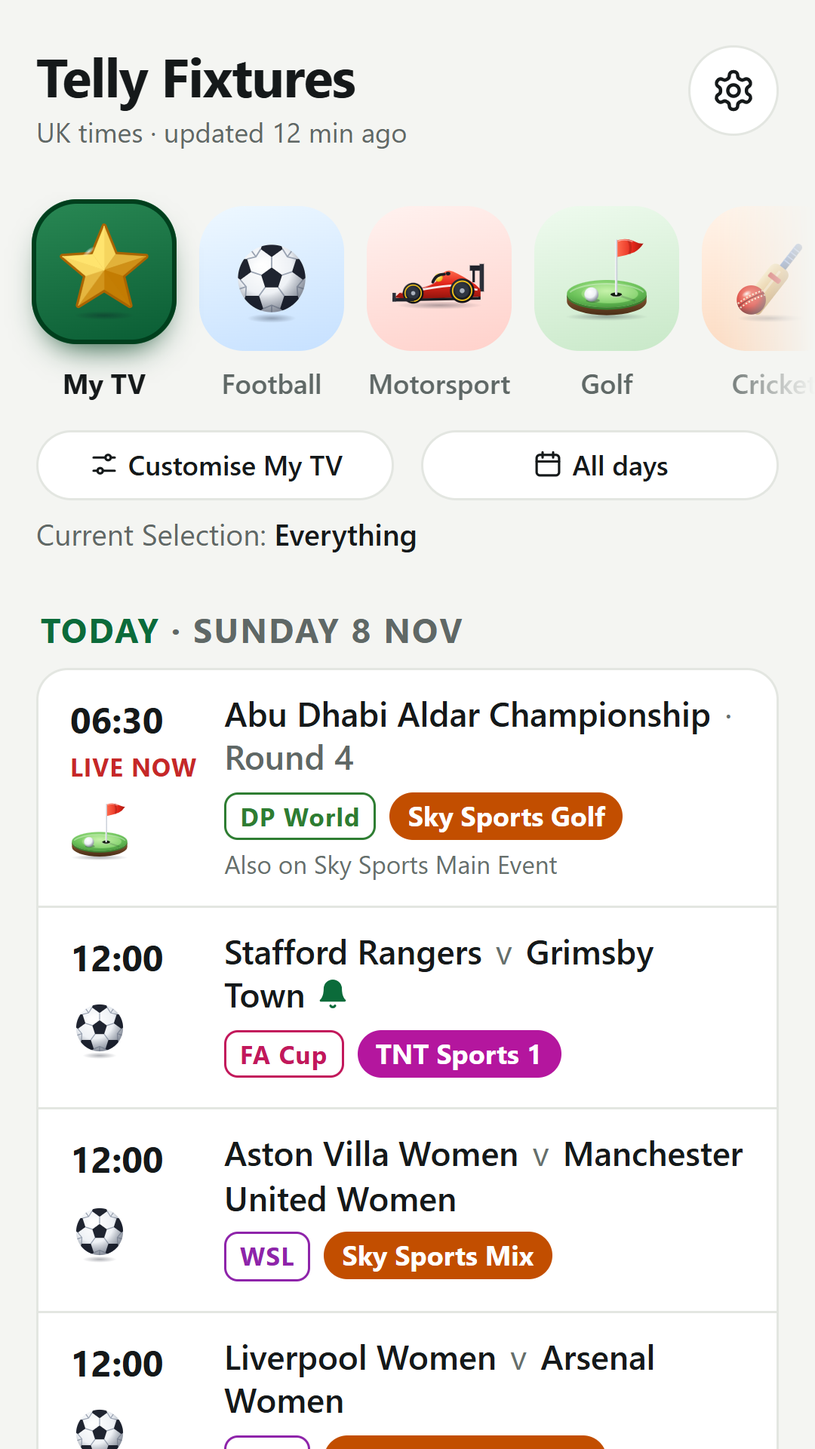
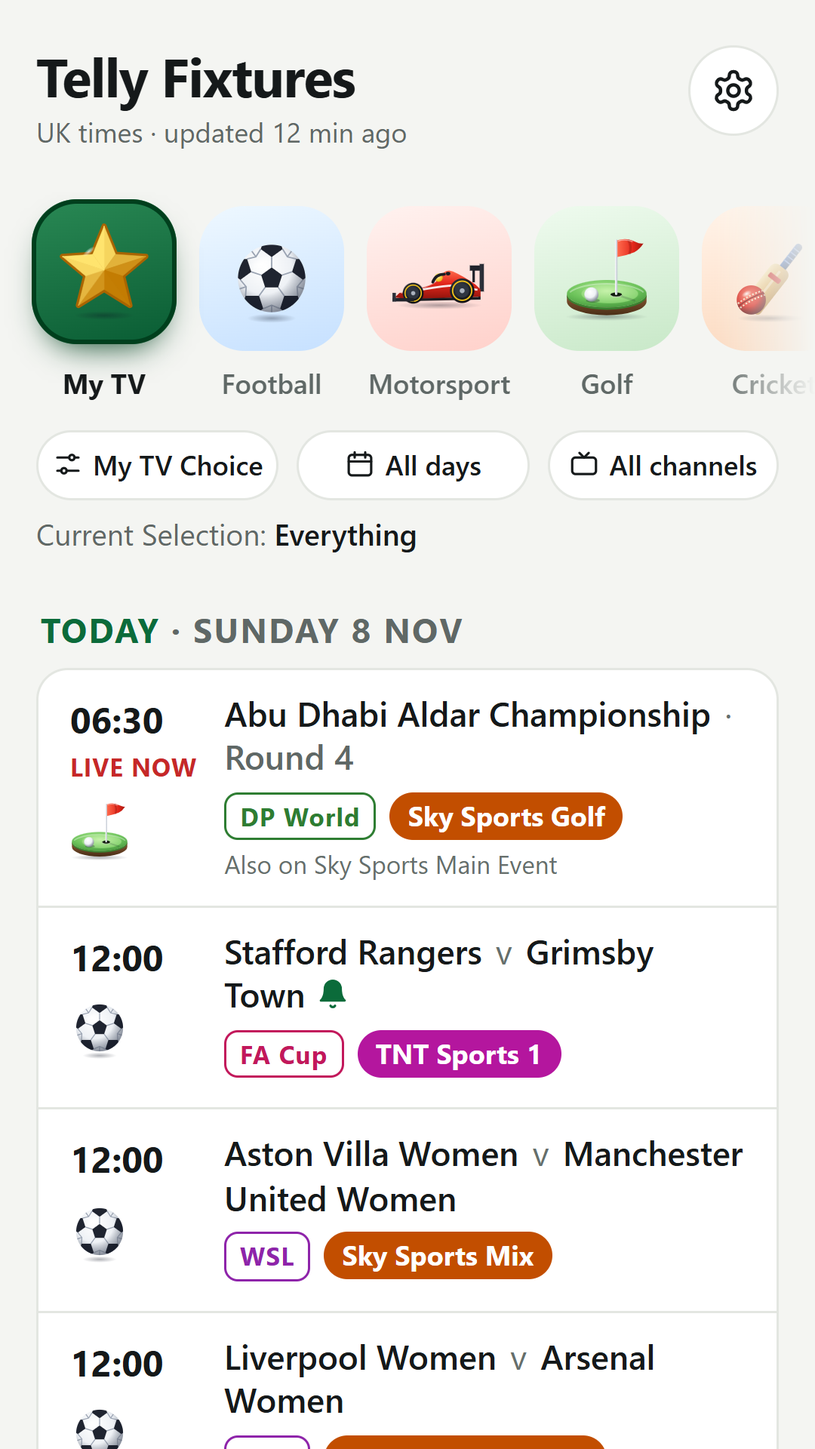
App 1.0.7: channel filter, My TV Choice, back clears filters first
My TV gets a channel button: tick broadcasters (Sky Sports, TNT Sports, HBO Max...), combined with the day. Customise My TV is now My TV Choice. Back (swipe) on My TV clears a picked day or channel before closing the app. The store screenshots and description show it.

Changed region(s): [[0.0611, 0.3125, 0.5806, 0.3438], [0.6417, 0.3125, 0.9167, 0.3438]]

diff --git a/index.html b/index.html
@@ -234,9 +234,9 @@
   .chip[aria-pressed="true"] { background: var(--text); border-color: var(--text); color: var(--bg); }
   .chip .soon { font-size: 0.625rem; font-weight: 700; text-transform: uppercase; letter-spacing: .04em; opacity: .65; margin-left: 5px; }
   .mine { display: flex; flex-direction: column; gap: 6px; margin-top: 10px; }
-  /* Side by side and equally wide; with larger text the day button moves under Customise */
-  .mine .btns { display: flex; flex-wrap: wrap; gap: 8px 12px; }
-  .mine .btns .edit { flex: 1 1 120px; min-width: fit-content; justify-content: center; white-space: nowrap; }
+  /* Side by side and equally wide; with larger text they wrap onto a second line */
+  .mine .btns { display: flex; flex-wrap: wrap; gap: 8px; }
+  .mine .btns .edit { flex: 1 1 0; min-width: fit-content; justify-content: center; white-space: nowrap; padding-left: 8px; padding-right: 8px; }
   .mine .what { font-size: 0.8125rem; color: var(--muted); }
   .mine .what b { color: var(--text); font-weight: 600; }
   .edit {
@@ -298,7 +298,7 @@
   footer a { color: inherit; }
   .loading { color: var(--muted); padding: 40px 0; text-align: center; }
 
-  /* "Customise My TV": a sheet that slides up from the bottom */
+  /* "My TV Choice": a sheet that slides up from the bottom */
   dialog.sheet {
     border: 0; padding: 0; margin: auto auto 0; width: 100%; max-width: 640px; max-height: 88vh; max-height: 88dvh;
     border-radius: 20px 20px 0 0; background: var(--bg); color: var(--text); display: none; flex-direction: column;
@@ -387,7 +387,7 @@
 </div>
 
 <dialog class="sheet" id="picker" aria-labelledby="picker-title">
-  <div class="sheet-h"><h3 id="picker-title">Customise My TV</h3><button class="done" id="picker-done">Done</button></div>
+  <div class="sheet-h"><h3 id="picker-title">My TV Choice</h3><button class="done" id="picker-done">Done</button></div>
   <p class="sheet-p">Tick what you want to see when you open the app. Your choice is saved on this phone.</p>
   <div class="sheet-b" id="picker-body"></div>
 </dialog>
@@ -396,6 +396,12 @@
   <div class="sheet-h"><h3 id="day-title">Pick a day</h3><button class="done" id="day-close">Close</button></div>
   <p class="sheet-p">Show your TV feed for one day only, or for the whole week.</p>
   <div class="sheet-b" id="day-body"></div>
+</dialog>
+
+<dialog class="sheet" id="chanPicker" aria-labelledby="chan-title">
+  <div class="sheet-h"><h3 id="chan-title">Pick channels</h3><button class="done" id="chan-done">Done</button></div>
+  <p class="sheet-p">Show only what’s on these channels. Tick as many as you like.</p>
+  <div class="sheet-b" id="chan-body"></div>
 </dialog>
 
 <dialog class="sheet" id="settings" aria-labelledby="settings-title">
@@ -455,6 +461,7 @@
   const ICON = {
     bell: svg('<path d="M6 8a6 6 0 0 1 12 0c0 7 3 9 3 9H3s3-2 3-9"/><path d="M10.3 21a1.94 1.94 0 0 0 3.4 0"/>'),
     gear: svg('<path d="M12.22 2h-.44a2 2 0 0 0-2 2v.18a2 2 0 0 1-1 1.73l-.43.25a2 2 0 0 1-2 0l-.15-.08a2 2 0 0 0-2.73.73l-.22.38a2 2 0 0 0 .73 2.73l.15.1a2 2 0 0 1 1 1.72v.51a2 2 0 0 1-1 1.74l-.15.09a2 2 0 0 0-.73 2.73l.22.38a2 2 0 0 0 2.73.73l.15-.08a2 2 0 0 1 2 0l.43.25a2 2 0 0 1 1 1.73V20a2 2 0 0 0 2 2h.44a2 2 0 0 0 2-2v-.18a2 2 0 0 1 1-1.73l.43-.25a2 2 0 0 1 2 0l.15.08a2 2 0 0 0 2.73-.73l.22-.39a2 2 0 0 0-.73-2.73l-.15-.08a2 2 0 0 1-1-1.74v-.5a2 2 0 0 1 1-1.74l.15-.09a2 2 0 0 0 .73-2.73l-.22-.38a2 2 0 0 0-2.73-.73l-.15.08a2 2 0 0 1-2 0l-.43-.25a2 2 0 0 1-1-1.73V4a2 2 0 0 0-2-2z"/><circle cx="12" cy="12" r="3"/>'),
+    tv: svg('<rect x="3" y="7" width="18" height="12.5" rx="2.5"/><path d="M8.5 3.5 12 7l3.5-3.5"/>'),
     calendar: svg('<rect x="3.5" y="5" width="17" height="15.5" rx="2.5"/><path d="M3.5 10h17M8 3v4M16 3v4"/>'),
     edit: svg('<path d="M4 7h9M17 7h3M4 17h3M11 17h9"/><circle cx="15" cy="7" r="2"/><circle cx="9" cy="17" r="2"/>'),
   };
@@ -525,7 +532,7 @@
   // My TV is not a sport but sits in the same row
   const MINE = { id: 'mine', icon: 'mytv', hue: 155, name: 'My TV' };
   const SPORT_BY_ID = Object.fromEntries(SPORTS.map(s => [s.id, s]));
-  // Chips (and Customise buttons) for a sport's competitions: when it has several, or always for
+  // Chips (and My TV Choice buttons) for a sport's competitions: when it has several, or always for
   // Specials, whose events are too different to lump together (George, 29 Oct 2026)
   const showsComps = (s) => s.comps.length > 1 || (!!s.listComps && s.comps.length > 0);
   // A sport's 3D icon on its tinted tile (the colours are set by CSS from --h)
@@ -545,7 +552,7 @@
     return e.comp;
   }
 
-  // My TV: the competitions picked in "Customise". Default: everything.
+  // My TV: the competitions picked in "My TV Choice". Default: everything.
   // A special out of scope keeps its tick for its next edition, so the picks can hold more than
   // ALL_COMPS (the competitions on show).
   let picks = new Set(ALL_COMPS);
@@ -591,6 +598,8 @@
   }
   // The day picked on My TV, or null for the whole week (also if that day has since left the window)
   const pickedDay = () => view.sport === 'mine' && view.day ? windowDays().find(d => d.key === view.day) || null : null;
+  // The broadcasters picked on My TV, or null for all channels. Not saved: the app opens on all of them.
+  const pickedChans = () => view.sport === 'mine' && view.chans && view.chans.size ? view.chans : null;
   const dayName = (d) => d.i === 0 ? 'Today' : d.i === 1 ? 'Tomorrow' : fShort.format(d.date);
 
   let data = null;
@@ -606,6 +615,24 @@
   function esc(s) {
     return String(s ?? '').replace(/[&<>"']/g, c => ({ '&': '&amp;', '<': '&lt;', '>': '&gt;', '"': '&quot;', "'": '&#39;' }[c]));
   }
+
+  // The channel filter on My TV (George, 7 Nov 2026) picks broadcasters, not single channels: "TNT Sports"
+  // covers TNT Sports 1-4. A fixture counts if any of its channels, "also on" ones included, belongs to a
+  // picked broadcaster; one with no channel yet doesn't.
+  const BRANDS = [['Sky Sports', /^sky sports/i], ['TNT Sports', /^tnt sports/i], ['HBO Max', /hbo max/i],
+    ['Prime Video', /prime video|amazon/i], ['BBC', /^bbc/i], ['ITV', /^itv/i], ['Channel 4', /^(channel 4|e4|more4)\b/i],
+    ['Channel 5', /^(channel 5|5\b)/i], ['Premier Sports', /^(premier sports|premier events|laliga tv)/i]];
+  const brandOf = (channel) => (BRANDS.find(([, re]) => re.test(channel)) || [channel])[0];
+  function brandsOf(m) {
+    const tv = m.tv || {};
+    const chans = [...(tv.channels || []), ...(tv.alsoOn || [])];
+    if (!chans.length && tv.broadcaster) chans.push(tv.broadcaster);
+    return new Set(chans.map(brandOf));
+  }
+  const brandOrder = (a, b) => {
+    const i = (x) => { const n = BRANDS.findIndex(([name]) => name === x); return n < 0 ? BRANDS.length : n; };
+    return i(a) - i(b) || a.localeCompare(b);
+  };
 
   function brandClass(name) {
     const n = (name || '').toLowerCase();
@@ -827,10 +854,13 @@
       ${tile(s)}<span>${esc(s.name)}</span></button>`).join('');
     if (view.sport === 'mine') {
       const day = pickedDay();
+      const chans = pickedChans() ? [...pickedChans()].sort(brandOrder) : [];
+      const chanLabel = !chans.length ? 'All channels' : chans.length === 1 ? chans[0] : `${chans[0]} +${chans.length - 1}`;
       $('#sub').innerHTML = `<div class="mine">
         <div class="btns">
-          <button class="edit" id="edit">${ICON.edit}<span>Customise My TV</span></button>
+          <button class="edit" id="edit">${ICON.edit}<span>My TV Choice</span></button>
           <button class="edit" id="dayBtn">${ICON.calendar}<span>${day ? esc(dayName(day)) : 'All days'}</span></button>
+          <button class="edit" id="chanBtn" aria-label="Channels: ${esc(chans.length ? chans.join(', ') : 'all')}">${ICON.tv}<span>${esc(chanLabel)}</span></button>
         </div>
         <div class="what">${picksSummary()}</div></div>`;
     } else {
@@ -910,14 +940,16 @@
     $('#banner').innerHTML = bannerHtml;
 
     const one = pickedDay();
+    const chans = pickedChans();
     const days = one ? [one] : windowDays();
     const byDay = {};
     for (const m of data.events || data.matches || []) {
       if (!inView(compOf(m))) continue;
+      if (chans && ![...brandsOf(m)].some(b => chans.has(b))) continue;
       (byDay[ukKey(new Date(m.kickoff))] ||= []).push(m);
     }
 
-    const none = view.sport === 'mine' ? 'Nothing on TV from your picks'
+    const none = view.sport === 'mine' ? (chans ? `Nothing from your picks on ${chans.size === 1 ? [...chans][0] : 'these channels'}` : 'Nothing on TV from your picks')
       : view.comps.size === 1 ? COMP[[...view.comps][0]].none
       : view.comps.size ? 'Nothing on TV from your selection' : SPORTS.find(s => s.id === view.sport).none;
     let html = '';
@@ -1100,6 +1132,7 @@
     }
     if (ev.target.closest('#edit')) openPicker();
     if (ev.target.closest('#dayBtn')) openDayPicker();
+    if (ev.target.closest('#chanBtn')) openChanPicker();
   });
   $('#banner').addEventListener('click', (ev) => { if (ev.target.closest('#edit2')) openPicker(); });
 
@@ -1114,7 +1147,7 @@
   // A line under the sticky navigation once the list scrolls beneath it
   addEventListener('scroll', () => $('#filters').classList.toggle('stuck', window.scrollY > $('#filters').offsetTop + 1), { passive: true });
 
-  // "Customise My TV" sheet: a switch per sport, and a toggle per competition
+  // "My TV Choice" sheet: a switch per sport, and a toggle per competition
   function renderPicker() {
     const listed = SPORTS.filter(s => s.comps.length); // Specials has nothing to pick when no event is in scope
     $('#picker-body').innerHTML = listed.map(s => {
@@ -1156,7 +1189,7 @@
     else return;
     savePicks(); renderPicker(); renderNav(); render();
   });
-  $('#picker-done').addEventListener('click', () => { closePicker(); go({ sport: 'mine', comps: new Set(), day: view.day }); });
+  $('#picker-done').addEventListener('click', () => { closePicker(); go({ sport: 'mine', comps: new Set(), day: view.day, chans: view.chans }); });
   $('#picker').addEventListener('click', (ev) => { if (ev.target === ev.currentTarget) closePicker(); }); // tap outside the sheet
 
   // "Pick a day" sheet: All days, then each of the 8 days. Tapping one applies it and closes the sheet.
@@ -1175,10 +1208,40 @@
     const b = ev.target.closest('.dayopt');
     if (!b) return;
     closeDayPicker();
-    go({ sport: 'mine', comps: new Set(), day: b.dataset.d || null });
+    go({ sport: 'mine', comps: new Set(), day: b.dataset.d || null, chans: view.chans });
   });
   $('#day-close').addEventListener('click', closeDayPicker);
   $('#dayPicker').addEventListener('click', (ev) => { if (ev.target === ev.currentTarget) closeDayPicker(); });
+
+  // "Pick channels" sheet: All channels, then each broadcaster in this week's listings. Several can be
+  // ticked; the listings behind change at once, and Done (or a tap outside) closes it.
+  function renderChanPicker() {
+    const cur = pickedChans();
+    const brands = new Set();
+    for (const m of data ? data.events || [] : []) for (const b of brandsOf(m)) brands.add(b);
+    for (const b of cur || []) brands.add(b);
+    $('#chan-body').innerHTML = `<button class="dayopt" data-ch="" aria-pressed="${!cur}">All channels</button>` +
+      [...brands].sort(brandOrder).map(b => `<button class="dayopt" data-ch="${esc(b)}" aria-pressed="${!!cur && cur.has(b)}">${esc(b)}</button>`).join('');
+  }
+  function openChanPicker() {
+    renderChanPicker();
+    const dlg = $('#chanPicker');
+    if (dlg.showModal) dlg.showModal(); else dlg.setAttribute('open', '');
+  }
+  function closeChanPicker() {
+    const dlg = $('#chanPicker');
+    if (dlg.close) dlg.close(); else dlg.removeAttribute('open');
+  }
+  $('#chan-body').addEventListener('click', (ev) => {
+    const b = ev.target.closest('.dayopt');
+    if (!b) return;
+    const chans = new Set(b.dataset.ch ? pickedChans() || [] : []);
+    if (b.dataset.ch) chans.has(b.dataset.ch) ? chans.delete(b.dataset.ch) : chans.add(b.dataset.ch);
+    go({ sport: 'mine', comps: new Set(), day: view.day, chans });
+    renderChanPicker();
+  });
+  $('#chan-done').addEventListener('click', closeChanPicker);
+  $('#chanPicker').addEventListener('click', (ev) => { if (ev.target === ev.currentTarget) closeChanPicker(); });
 
   // Colour theme: Light / Dark. First visit matches the phone; after that your choice is remembered.
   const THEMES = { light: 'Light', dark: 'Dark' };
@@ -1234,14 +1297,17 @@
   $('#settings-done').addEventListener('click', closeSettings);
   $('#settings').addEventListener('click', (ev) => { if (ev.target === ev.currentTarget) closeSettings(); }); // tap outside the sheet
 
-  // The phone app's back button: close an open sheet, else go back to My TV; on My TV the app goes
-  // to the background
+  // The phone app's back button (or swipe): close an open sheet, else go back to My TV; on My TV a picked
+  // day or channel is cleared first (George, 7 Nov 2026: one swipe closed the app with a day still
+  // picked), and only then does the app go to the background
   platform.onBack(() => {
     if ($('#picker').open) { closePicker(); return true; }
     if ($('#dayPicker').open) { closeDayPicker(); return true; }
+    if ($('#chanPicker').open) { closeChanPicker(); return true; }
     if ($('#settings').open) { closeSettings(); return true; }
     if ($('#reminder').open) { closeReminder(); return true; }
-    if (view.sport !== 'mine') { go({ sport: 'mine', comps: new Set(), day: view.day }); return true; }
+    if (view.sport !== 'mine') { go({ sport: 'mine', comps: new Set(), day: view.day, chans: view.chans }); return true; }
+    if (pickedDay() || pickedChans()) { go({ sport: 'mine', comps: new Set(), day: null, chans: null }); return true; }
     return false;
   });
   document.addEventListener('visibilitychange', () => { if (!document.hidden) load(); });

diff --git a/CLAUDE.md b/CLAUDE.md
@@ -96,7 +96,7 @@ The F1/F2/F3/PGA Tour API keys (and the ICC client id) are the ones each website
 
 **Curling, a Special (George, 29 Oct 2026; `curling.mjs`):** the European Curling Championships (`SPECIAL_CURLING`), **televised games only**, one entry per game: "Germany v Scotland" · "Men's Round Robin", or "Women's Semi-Final"/"Men's Final" (TNT names no teams for those). Games come from TNT's schedule (sport "Curling", title "Germany - Scotland" or "Curling", subtitle "Men | Round Robin | European Championships") and Sky's guide on TNT Sports 1–4 ("Live: Curling European Champs" or "Live: Curling EC - Ostrava", the game in the synopsis: "…the men's round robin contest between Germany and Scotland at…"), on the championships' days (World Curling). Programmes starting within 15 minutes of each other for the same men's/women's draw are one entry (the two women's semi-finals at once became one "Women's Semi-Final"); TNT's teams win over the synopsis', "Czech Republic" reads "Czechia". Channels: the guide's first, then TNT's, HBO Max last. 2026: TNT showed one or two games a day (mostly Germany's), two only on HBO Max. To add another championship (e.g. the Worlds), add it to `CURLING_EVENTS` (World Curling slug, TV pattern) and to the Specials table.
 
-**Specials table (George, 5 Nov 2026; `scripts/sources/specials.mjs`):** `SPECIALS` is the back-end list of every special (`comp`, `name`, `tag`). `specialsInScope` writes the ones in scope to `data.json`'s `specials` (with `startDate`, `endDate`): **from 7 days before the start until the last day**, dates from the event's own source. A failed read keeps the previous update's dates. The app builds the Specials chips and Customise entries from that list only (`syncSpecials` in `index.html`), so a finished event's name disappears and the next edition comes back by itself once its organiser publishes the dates. With nothing in scope, Specials has no chips ("No big events on TV") and no Customise group. An event first seen starts ticked in My TV; one out of scope keeps its tick for next time (`myComps` can hold more than `ALL_COMPS`, `myCompsKnown` remembers every one seen). A new special needs a row here, a source for its dates and entries, and a line in `build.mjs`; no app change.
+**Specials table (George, 5 Nov 2026; `scripts/sources/specials.mjs`):** `SPECIALS` is the back-end list of every special (`comp`, `name`, `tag`). `specialsInScope` writes the ones in scope to `data.json`'s `specials` (with `startDate`, `endDate`): **from 7 days before the start until the last day**, dates from the event's own source. A failed read keeps the previous update's dates. The app builds the Specials chips and My TV Choice entries from that list only (`syncSpecials` in `index.html`), so a finished event's name disappears and the next edition comes back by itself once its organiser publishes the dates. With nothing in scope, Specials has no chips ("No big events on TV") and no My TV Choice group. An event first seen starts ticked in My TV; one out of scope keeps its tick for next time (`myComps` can hold more than `ALL_COMPS`, `myCompsKnown` remembers every one seen). A new special needs a row here, a source for its dates and entries, and a line in `build.mjs`; no app change.
 
 **Rugby union (connected 29 Oct 2026; `rugby.mjs`):** every match of the Premiership (`RU_PREM`), Champions Cup (`RU_CUP`), Nations Championship (`RU_NATIONS`) and Six Nations (`RU_6N`), as `kind: 'match'` (home v away, no scores: scores are a football-only accepted risk). Channels as for football (`rugbyTv`): a programme on `SPORT_CHANNELS.rugby` (TNT 1–4, Sky Sports Main Event/+/Mix, BBC One/Two, ITV1/ITV4, Channel 4/5) that counts as live (`isLiveCoverage`: on BBC/ITV a long non-replay programme counts), on air at kick-off and naming both teams (`guideTeams` + `teamSim`; U20 and women's programmes skipped) – Sky's titles: "Live: Bath Rugby v Sale Sharks", "Live: Northampton v Gloucester"; ITV1's put the teams first, with no "Live" ("Italy v South Africa: Nations Championship", the Nations Championship in Nov 2026); then Premier Sports' page for the Champions Cup (competition matching /champions cup/i – not yet seen there: the 2026/27 Champions Cup starts in December, so check its name then); then TNT's schedule (`tntProgrammesFor`, subtitle "Gallagher PREM", "Champions Cup" or "Six Nations"; HBO Max last: in round 5, 31 Oct 2026, two of the five Premiership games were on HBO Max only). Else "TV channel to be confirmed". **The 48-hour cut-off is football only** (`FOOTBALL_COMPS` in `build.mjs`), but the app's "Not shown live on UK TV" from kick-off applies to rugby too (any `kind: 'match'`). **Super League (`RL_SL`) is still `soon`:** World Rugby doesn't cover rugby league, and its 2027 fixtures weren't out (the 2026 list came out on 27 Nov 2025; the season starts in February). Connect it once they're published (superleague.co.uk / rugby-league.com: find their data feed then).
 
@@ -108,7 +108,7 @@ UK rights for 2026/27 (background only – never used to infer a channel): PL on
 
 ## UI decisions George has made (keep these)
 
-- **Navigation (Design A, live since 18 Oct 2026; details in `designA.md`):** a sticky row of 3D sport icons on tinted rounded tiles (`sport-icons/`; **My TV**, Football, Motorsport, Golf, Cricket, Rugby, Darts, Snooker, Tennis, Skiing, Specials) that scrolls sideways. A sport with several competitions shows chips under it ("All football" + one per competition); **several chips can be on at once**, tapping a chip again switches it off, and none on = the whole sport. Darts, Snooker and Skiing have one competition each, so no chips. **Specials always shows its chips** ("All specials" + one per event; `listComps` in `SPORTS`; George, 29 Oct 2026: its events are too different to lump together), even with one event, and Customise lists each event, but only events in scope (see "Specials table"). **Tennis's and Skiing's icons are George's own PNGs** (`sport-icons/tennis.png`, `skiing.png`, 512×512 with transparency, 29 Oct 2026; `iconFile` in `SPORTS` – the others are SVGs). The row's order stays: …, Snooker, Tennis, Skiing, Specials. **My TV** is the default view (the app always opens on it): it shows the competitions ticked in **Customise My TV** (a bottom sheet; saved on the phone in `localStorage` `myComps`), with "Current Selection: …" (sports only) under the two buttons. **The whole bar stays fixed at the top while scrolling** (icons, both buttons and "Current Selection"; George, 1 Nov 2026: keep it, even though it takes about a third of the screen at a larger font size). Every fixture card also shows its sport's icon under the time (so "Test" + Sky Sports+ is clearly cricket). Next to Customise is a day button ("All days", "Today", "Tomorrow" or a date): it opens a **Pick a day** sheet and narrows My TV to that day (My TV only).
+- **Navigation (Design A, live since 18 Oct 2026; details in `designA.md`):** a sticky row of 3D sport icons on tinted rounded tiles (`sport-icons/`; **My TV**, Football, Motorsport, Golf, Cricket, Rugby, Darts, Snooker, Tennis, Skiing, Specials) that scrolls sideways. A sport with several competitions shows chips under it ("All football" + one per competition); **several chips can be on at once**, tapping a chip again switches it off, and none on = the whole sport. Darts, Snooker and Skiing have one competition each, so no chips. **Specials always shows its chips** ("All specials" + one per event; `listComps` in `SPORTS`; George, 29 Oct 2026: its events are too different to lump together), even with one event, and My TV Choice lists each event, but only events in scope (see "Specials table"). **Tennis's and Skiing's icons are George's own PNGs** (`sport-icons/tennis.png`, `skiing.png`, 512×512 with transparency, 29 Oct 2026; `iconFile` in `SPORTS` – the others are SVGs). The row's order stays: …, Snooker, Tennis, Skiing, Specials. **My TV** is the default view (the app always opens on it): it shows the competitions ticked in **My TV Choice** (called "Customise My TV" until 7 Nov 2026; a bottom sheet; saved on the phone in `localStorage` `myComps`), with "Current Selection: …" (sports only) under the two buttons. **The whole bar stays fixed at the top while scrolling** (icons, both buttons and "Current Selection"; George, 1 Nov 2026: keep it, even though it takes about a third of the screen at a larger font size). Every fixture card also shows its sport's icon under the time (so "Test" + Sky Sports+ is clearly cricket). Next to My TV Choice is a day button ("All days", "Today", "Tomorrow" or a date): it opens a **Pick a day** sheet and narrows My TV to that day (My TV only). **Then a channel button (George, 7 Nov 2026):** "All channels" opens a **Pick channels** sheet of broadcasters (`BRANDS`: Sky Sports, TNT Sports, HBO Max, Prime Video, BBC, ITV, Channel 4, Channel 5, Premier Sports; only those in the listings), several at once; a fixture shows if any of its channels, "also on" included, belongs to one, and one with no channel is hidden. Day and channels combine, aren't saved, and the first back (swipe) on My TV clears both before a second one closes the app.
 - Every day of the 8-day window is listed. An empty day says what the view is about: "Nothing on TV from your picks" (My TV), the sport's message ("No televised football", "No motorsport sessions", "No televised golf", "No international cricket on TV", "No televised rugby", "No televised darts", "No televised snooker", "No tennis on TV", "No alpine skiing on TV", "No big events on TV") or, with one competition chip on, its own ("No scheduled PL games", "No F1 sessions", "No televised FA Cup ties"…); two or more chips: "Nothing on TV from your selection".
 - F1/F2/F3 and MotoGP: qualifying, sprint and race sessions only (no practice). Darts and snooker: TV events only, one entry per session. Golf: one entry per round on UK TV. Cricket: men's internationals between the 12 Full Members, England always, others only when on UK TV. Alpine skiing: every World Cup and World Championships race, one entry per run. Tennis: one entry per tournament day on UK TV. Specials: real events only; curling lists televised games. Rugby: every match of the four union competitions.
 - Day/date headings are 15px (0.9375rem), uppercase. **Text a bit smaller (George, 1 Nov 2026):** to fit more listings on screen, main text is 15px (team names, events), times 16px, channel pills 12px, with tighter card padding and a 32px sport icon (about 20% more listings per screen); it still follows the phone's font size.
@@ -121,7 +121,7 @@ UK rights for 2026/27 (background only – never used to infer a channel): PL on
 - All times are shown in Europe/London time.
 - The live label reads **LIVE NOW** (one line, under the time). It follows the phone's clock for every sport (it compares exact moments, so it is right in any time zone): sessions between their start and end, football from kick-off to ~1h55 later; the feed's "live" can stretch that to at most 2h45 after kick-off (updates can be hours apart, so an old "live" must not stick; its stale score is hidden).
 - Football scores stay on (13 Oct 2026), now from API-Football: the app shows the score from the last update during a match and the final score once it's over. Updates run every 30 minutes, so a score can be up to about 30 minutes old. **George's rule (19 Oct 2026): scores are an accepted risk, never "live" (5 minutes at most), never advertised, removable with one switch (`SHOW_SCORES=off`).** A 5-minute scores-only update is planned after `data.json` moves off GitHub (`playStorePlan.md`, Phase 1); not built yet.
-- Yellow banners: one per failed source, only in views that include a competition that source feeds. **Exception: no banner for Prime Video** (George, 18 Oct 2026: a failed read keeps Amazon's pick anyway, and he watches `report.primeVideo` in `data.json` himself), nor for Premier Sports' `wrongRegion` (a US run). A competition with no data source yet is marked **SOON** on its chip and in Customise (only Super League now; F3 and MotoGP connected 20 Oct 2026, rugby union 29 Oct 2026; Specials' placeholders removed 29 Oct 2026); picked on its own it shows a grey note that it isn't connected yet.
+- Yellow banners: one per failed source, only in views that include a competition that source feeds. **Exception: no banner for Prime Video** (George, 18 Oct 2026: a failed read keeps Amazon's pick anyway, and he watches `report.primeVideo` in `data.json` himself), nor for Premier Sports' `wrongRegion` (a US run). A competition with no data source yet is marked **SOON** on its chip and in My TV Choice (only Super League now; F3 and MotoGP connected 20 Oct 2026, rugby union 29 Oct 2026; Specials' placeholders removed 29 Oct 2026); picked on its own it shows a grey note that it isn't connected yet.
 - **Rugby: main events only (George, 18 Oct 2026):** Six Nations, Nations Championship, Premiership, Champions Cup (union) and Super League (league). Deliberately left out: URC, the Challenge Cup and all Australian competitions (NRL, State of Origin). The four union competitions are live since 29 Oct 2026 (see "Rugby union"); Super League is `soon` until its 2027 fixtures are out.
 - **The app will be called "Telly Fixtures" (George, 19 Oct 2026)**, app ID `uk.co.tellyfixtures` (permanent once uploaded to a store; use it for Android and Apple), main domain tellyfixtures.co.uk. The app shows the name since 31 Oct 2026 (title, heading, manifest, home-screen name). The GitHub repo, the web address (genanev.github.io/football-on-tv), the Cloud Run job and the bot's commits keep `football-on-tv`: changing the repo name would break the phone's home-screen link; the address changes when the site moves to Cloudflare Pages.
 
@@ -165,5 +165,5 @@ UK rights for 2026/27 (background only – never used to infer a channel): PL on
 - Later: rename the app (to Telly Fixtures); more **Specials** (each a real event with its own source, like curling: e.g. the Tour de France, athletics championships); possibly women's cricket, the LPGA. Commercial version: **`playStorePlan.md`** (18 Oct 2026) is the plan, run like a business project (goals, gates, budget, risk register, decisions log, tick boxes): data rights and the name first, own domain on Cloudflare, **Capacitor** app shell (screens bundled in the app, so Apple's App Store stays possible; phone-specific code only in a small platform layer; npm packages kept in `app/`, never in `scripts/`), **RevenueCat** over Play Billing (£3.65/year, "1p a day"; **no card and no email to start: one month of full access counted on the phone, then a free tier of one sport with all its competitions, today only, with a new choice each week; a promo code gives 3 months of full access**, George, 5 Nov 2026; Google's own trials need a payment method, so these run outside its billing; rules in the plan's Phase 0 "Pricing", design in section 3), no separate login, match reminders, 12-tester closed test, Google Play first and the App Store as a later decision. Tick items off there as they're done.
 - **Football data for the commercial app (George, 19 Oct 2026):** done – every football competition's fixtures and scores come from **API-Football** (Pro plan, ≈ $19/month), live since 20 Oct 2026 (see "API-Football"). The official feeds stay: they check API-Football once a day and win where they disagree (George, 29 Oct 2026; see "API-Football"), and are the fallback. George's rights position: fixtures are facts (no Football DataCo licence); scores are an accepted risk, so they're refreshed **every 5 minutes at most, never "live"**, are never advertised as a feature, and must sit behind one switch that removes them everywhere. football-data.org is the fallback supplier. Business working files (12 permission emails, tracker, data-rights research) are in `business/`, kept out of git while the repo is public (so they exist only on George's PC).
 - **Data rights: going ahead (George, 29 Oct 2026; Gate G0 in `playStorePlan.md`).** All 12 permission emails were sent; no replies. We don't wait: consent was asked, and any objection is dealt with when it arises (he doubts any will come unless the app really takes off). Sources added since (MotoGP, F3, tennis, skiing, curling, rugby) weren't asked, same approach. Keep every source its own module so one can be switched off or swapped quickly if asked.
-- **Status (7 Nov 2026):** every sport in the overview above is live except Super League (`soon`). The one-box-per-event card style (mock-up A, 3px gaps) is parked on the local branch `mockup-cards` (not pushed): George keeps the current design for now. Paid app: Phase 1's own domain, rename, offline use, accessibility, icon licence, website, privacy policy and terms are done (the website went live on 7 Nov 2026); ICO and polish are open. Phase 2: the Android app is on Play's internal testing track and on George's Pixel, at **1.0.6** (uploaded 7 Nov 2026; tags `app-v1.0.0` to `app-v1.0.6`), with Settings, tap-to-remind ("When it starts" always offered, on-time with "Alarms & reminders") and links to the Privacy policy and Terms of use. **1.0.7 is built, not yet uploaded:** "Remove all reminders", and a fix: 1.0.6 showed `class="sess">` after one-word sessions with a reminder ("São Paulo Grand Prix · Qualifying"; found by George), as the bell's last-word pattern took the tag for a word. Checked on all 63 remindable fixtures of the week, nine sports, at 320px. The store's Remind me screenshot shows 1.0.6's four choices. Next: George enters the store listing drafted in `app/store/listing.md`, then testers and the closed test (`playStorePlan.md` → Phase 2 "Where we are"). A real fixture's reminder came through on the Pixel (George, 5 Nov 2026). **Legal points wait for one review just before launch (George, 5 Nov 2026): add new ones to "Legal review before launch" in Phase 5 of the plan, rather than raising them as blockers.**
+- **Status (7 Nov 2026):** every sport in the overview above is live except Super League (`soon`). The one-box-per-event card style (mock-up A, 3px gaps) is parked on the local branch `mockup-cards` (not pushed): George keeps the current design for now. Paid app: Phase 1's own domain, rename, offline use, accessibility, icon licence, website, privacy policy and terms are done (the website went live on 7 Nov 2026); ICO and polish are open. Phase 2: the Android app is on Play's internal testing track and on George's Pixel, at **1.0.6** (uploaded 7 Nov 2026; tags `app-v1.0.0` to `app-v1.0.6`), with Settings, tap-to-remind ("When it starts" always offered, on-time with "Alarms & reminders") and links to the Privacy policy and Terms of use. **1.0.7 is built, not yet uploaded:** the channel filter, "My TV Choice" (was "Customise My TV"), back clearing a picked day or channel before closing the app, "Remove all reminders", and a fix: 1.0.6 showed `class="sess">` after one-word sessions with a reminder ("São Paulo Grand Prix · Qualifying"; found by George), as the bell's last-word pattern took the tag for a word. Checked on all 63 remindable fixtures of the week, nine sports, at 320px. The store's Remind me screenshot shows 1.0.6's four choices. Next: George enters the store listing drafted in `app/store/listing.md`, then testers and the closed test (`playStorePlan.md` → Phase 2 "Where we are"). A real fixture's reminder came through on the Pixel (George, 5 Nov 2026). **Legal points wait for one review just before launch (George, 5 Nov 2026): add new ones to "Legal review before launch" in Phase 5 of the plan, rather than raising them as blockers.**
 - **Own-domain copy, 3 Nov 2026 (unresolved, minor):** a check of data.tellyfixtures.co.uk didn't see Man Utd v Roma on Prime Video until the 20:30 update, although GitHub's copies from 19:00 had it; the 21:00 update reached both at the same moment. Either the R2 uploads of 19:00–20:00 failed (they only warn, so the GitHub save went ahead) or the check misfired. When convenient, look at the Cloud Run job's logs for that evening ("R2 upload" warnings). It matters for the Android app, which reads the own domain only.

diff --git a/designA.md b/designA.md
@@ -19,7 +19,7 @@ then dropped on 17 Oct 2026.
  ┌──────────────────────────────────────────────┐  ← sticky
  │ (★)    (⚽)     (🏁)       (⛳)   (🏏)    (🏉 ›  │  3D sport icons on tiles, scroll sideways
  │ My TV Football Motorsport  Golf Cricket Da…  │
- │ [⚙ Customise My TV] [📅 All days]             │  ← on My TV
+ │ [⚙ My TV Choice] [📅 All days] [📺 All channels] │  ← on My TV
  │ Current Selection: Football, Golf, Darts     │
  │ [All football] [Premier League] [Champions…  │  ← on a sport: competition chips
  └──────────────────────────────────────────────┘
@@ -31,7 +31,7 @@ then dropped on 17 Oct 2026.
 ```
 
 1. **My TV** (star icon) is the default view. The app always opens on it, and it shows only the
-   competitions you ticked in **Customise**.
+   competitions you ticked in **My TV Choice**.
 2. The **sport icons** open a whole sport, for example all football.
 3. The **competition chips** under a sport narrow it to the competitions you tap, for example only
    the Premier League and the Champions League (see "Navigation details"). Darts and snooker have
@@ -40,7 +40,7 @@ then dropped on 17 Oct 2026.
 ## Section grouping
 
 The sports and their competitions are defined once, in `SPORTS` in `index.html`. Each
-competition has an `id`, a full `name` (used on chips and in Customise), a short `tag` (the outlined
+competition has an `id`, a full `name` (used on chips and in My TV Choice), a short `tag` (the outlined
 label on each listing), a colour, and its empty-day message (`none`).
 
 | Sport (icon) | Competition | id | Tag | Data today |
@@ -113,12 +113,12 @@ make the build write that `comp` id. When the source is ready, remove `soon`.
 A competition marked `soon: true` is shown everywhere, so people can see what's coming and pick it
 in advance:
 
-- **Chips and Customise:** its name has a small, faded uppercase **SOON** after it
+- **Chips and My TV Choice:** its name has a small, faded uppercase **SOON** after it
   ("MotoGP SOON").
 - **When its chip is selected:** a dashed, neutral (not yellow) note above the days says
   "*MotoGP isn't connected yet. Its listings will appear here once it is.*" Every day is still
   listed with the competition's own empty message ("No MotoGP sessions").
-- **Customise:** it can be ticked like any other competition and is ticked by default, so it
+- **My TV Choice:** it can be ticked like any other competition and is ticked by default, so it
   appears on My TV by itself as soon as it's connected.
 - **Whole sport / My TV:** no note. A sport with no data on a day just shows its empty message
   ("No big events on TV").
@@ -132,13 +132,23 @@ in advance:
   at, because My TV *is* your default view.
 - **What it shows:** every listing whose competition is in your picks, merged into one list
   grouped by day.
-- **Day button** (calendar icon, next to Customise): reads "All days" by default, or "Today",
+- **Day button** (calendar icon, next to My TV Choice): reads "All days" by default, or "Today",
   "Tomorrow" or the date ("Tue 20 Oct"). It opens a **Pick a day** sheet with "All days" and each of
   the 8 days; tapping one applies it and closes the sheet. With a day picked, My TV lists only that
-  day. The choice is kept while you use Customise, and resets to "All days" when you tap another
+  day. The choice is kept while you use My TV Choice or pick channels, and resets to "All days" when you tap another
   sport, or My TV again, or reload. It applies to My TV only, not to the sport views.
-- **Customise button** ("Customise My TV", on the left, under the icons) opens a sheet that slides up
-  from the bottom (`<dialog>`), titled *Customise My TV*:
+- **Channel button** (TV icon, after the day button; George, 7 Nov 2026): reads "All channels", one
+  broadcaster ("TNT Sports") or "Sky Sports +1". It opens a **Pick channels** sheet: "All channels"
+  and each broadcaster in this week's listings (Sky Sports, TNT Sports, HBO Max, Prime Video, BBC, ITV,
+  Channel 4, Channel 5, Premier Sports; `BRANDS` in `index.html`). Several can be ticked, and the
+  sheet stays open until Done. A fixture shows if any of its channels, "also on" ones included,
+  belongs to a ticked broadcaster; one with no channel yet is hidden. Day and channels combine: My TV
+  Choice + Tuesday + TNT Sports. Neither is saved: the app opens on All days and All channels.
+- **Back (swipe or button) on My TV:** with a day or channels picked it clears both; a second back
+  sends the app to the background (George, 7 Nov 2026: one swipe used to close the app with a day
+  still picked).
+- **My TV Choice button** (called "Customise My TV" until 7 Nov 2026; on the left, under the icons) opens a sheet that slides up
+  from the bottom (`<dialog>`), titled *My TV Choice*:
   - one card per sport: its icon, its name, a count ("All", "2 of 3", "None") and a **switch**
     for the whole sport. The switch is on when all competitions are ticked, off when none are,
     and in a half-way position when some are. Tapping it turns the whole sport on (or, if
@@ -148,7 +158,7 @@ in advance:
   - "Select everything" and "Clear all" at the bottom; **Done** (or tapping outside the sheet)
     closes it.
   - Changes apply straight away. Done returns to My TV.
-- **Summary line** (under the Customise button): "Current Selection: **Everything**" when everything
+- **Summary line** (under the My TV Choice button): "Current Selection: **Everything**" when everything
   is ticked, otherwise the sports with anything ticked, by sport name only (not the competitions),
   for example "Current Selection: **Football, Golf, Darts**". It wraps onto a second line if long.
 - **Saved on the phone:** `localStorage` key `myComps` (a list of competition ids). The first
@@ -156,7 +166,8 @@ in advance:
   (`theme` is shared on purpose, so both pages use the same Light/Dark choice).
 - **Empty states:** a day with nothing says "Nothing on TV from your picks". If nothing is
   ticked at all, a note says "My TV is empty. **Pick your sports** to fill it." (the link opens
-  Customise).
+  My TV Choice). With channels picked, an empty day says "Nothing from your picks on TNT Sports" (or
+  "on these channels").
 - Known gap: a competition added to `SPORTS` later isn't ticked for someone who has already saved
   picks. Fix if needed by also saving the list of competitions that existed when they saved.
 
@@ -171,7 +182,7 @@ in advance:
   (`--tl1`, `--tc1`, `--tl2`, `--tc2`, `--rl`, `--ll`, `--mring`) set for light and dark mode, plus
   `--h`, the hue, set per sport in `SPORTS` (`icon`, `hue`): football 255, motorsport 27, golf 145,
   cricket 60, rugby 290, darts 345, snooker 175, specials 88, My TV 155. The same tile, smaller, is
-  in Customise My TV. The icon files and the pack's own tile spec are in `sport-icons/`.
+  in My TV Choice. The icon files and the pack's own tile spec are in `sport-icons/`.
 - **Sport icon on every listing:** each card shows its sport's icon (38 px, no tile, no text) under
   the time and LIVE NOW, so it is clear what sport a game is even when the tag only says "Test" or
   "ODI". The time column spans the card's rows so the icon never pushes the tags down.
@@ -180,7 +191,7 @@ in advance:
   selected chips are filled dark (light in dark mode). "All football" is on when no competition chip
   is, and tapping it clears the selection. Switching off the last selected chip goes back to the
   whole sport. The chip just tapped is scrolled into view.
-- **Single-competition sports** (Darts, Snooker, Skiing; Specials while it has one event) show no chip row, and in Customise they are just
+- **Single-competition sports** (Darts, Snooker, Skiing; Specials while it has one event) show no chip row, and in My TV Choice they are just
   a switch ("On"/"Off") with no competition buttons.
 - The icons and chips/summary stay **sticky** at the top; a hairline appears under them once the
   list scrolls beneath. Switching view jumps back to the top of the list.

diff --git a/app/store/listing.md b/app/store/listing.md
@@ -47,7 +47,7 @@ CHANNELS YOU CAN TRUST
 A channel is shown only when the broadcaster's own TV listings confirm it. Until then, the app says "TV channel to be confirmed", and it tells you when a game isn't shown live on UK TV, so you're never left guessing.
 
 MY TV
-Tick the sports and competitions you follow, and My TV shows just those, every time you open the app. Pick a day to see only that day's sport.
+Tick the sports and competitions you follow in My TV Choice, and My TV shows just those, every time you open the app. Pick a day, or the channels you have, to see just those: Tuesday on TNT Sports, say.
 
 REMINDERS
 Tap a fixture and choose an hour, 30 minutes or 15 minutes before it starts, or when it starts. Your phone reminds you, even with the app closed. A small bell shows the ones you've set.
@@ -71,8 +71,8 @@ Telly Fixtures is independent and isn't connected to any broadcaster, league or 
 1. `1-my-tv.png`: My TV, today's sport, with a reminder set (light)
 2. `2-football.png`: the Football view and its competitions (dark)
 3. `3-reminder.png`: setting a reminder (light)
-4. `4-customise.png`: Customise My TV (dark)
-5. `5-pick-a-day.png`: one day picked (light)
+4. `4-customise.png`: My TV Choice (dark)
+5. `5-pick-a-day.png`: one day and one channel picked (light)
 6. `6-motorsport.png`: the Motorsport view (dark)
 
 Leave the tablet, Chromebook and video sections empty.

diff --git a/app/CHANGELOG.md b/app/CHANGELOG.md
@@ -5,6 +5,9 @@ One section per version uploaded to Google Play, newest first. The heading's num
 `npm run release` prints ready to paste.
 
 ## 1.0.7
+- New channel filter on My TV: pick the channels you have, on their own or with a day, e.g. Tuesday on TNT Sports.
+- "Customise My TV" is now called "My TV Choice".
+- Going back now clears a picked day or channel first, rather than closing the app.
 - Remove all reminders at once: tap a fixture with a reminder, then "Remove all reminders".
 - Fixed: with a reminder set, some motorsport sessions showed stray text after their name.
 
